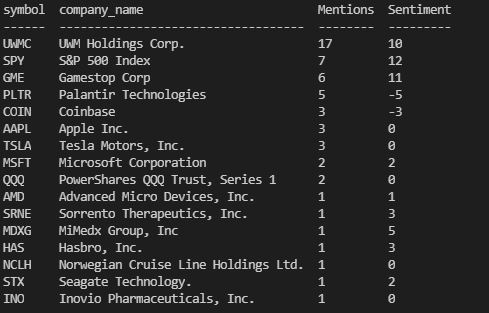
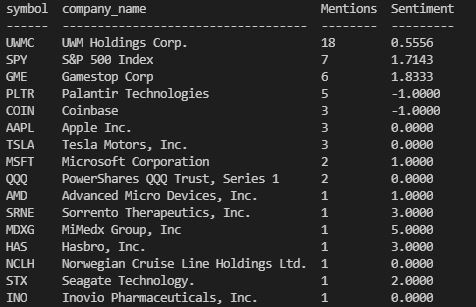
updated readme

diff --git a/controllers/apiRoutes/ticker-routes.js b/controllers/apiRoutes/ticker-routes.js
@@ -27,7 +27,7 @@ router.get('/count', (req, res) => {
             'symbol',
             'company_name',
             [sequelize.fn('COUNT', sequelize.col('symbol')), 'Mentions'],
-            [sequelize.fn('SUM', sequelize.col('sentiment_score')), 'Sentiment'],
+            [sequelize.fn('AVG', sequelize.col('sentiment_score')), 'Sentiment'],
         ],
         group: ['symbol'],
         order: [[sequelize.literal('Mentions'), 'DESC']]

diff --git a/README.md b/README.md
@@ -1,1 +1,23 @@
-# reddit-stock-tracker
+# Reddit Stock Search
+
+## Description
+This is a back-end application with the purpose of searching through the "WallStreetBets" subreddit page to gather data on stocks being talked about. As of right now,
+it scans through the titles of each post in the "hot" category and references ticker mentions whith a stock database which can be found in this repository. The app also
+uses a sentiment engine to measure the sentiment of each post title containing a stock. The sorted data is then uploaded to a mySQL database for use in other applications.
+
+## Future Additions
+* Scan through post text and comments on top of just titles
+* Search for full company names rather than just ticker symbols
+* Update the sentiment engine to understand reddit lingo a lot better (it's very inaccurate right now)
+* Allow for continued scanning of reddit and updating the database rather than just when the server is started
+
+## Software Used
+* JavaScript
+* Node.Js
+* MySQL (via Sequelize)
+
+## Images 
+![](./images/table.jpg)<br />
+
+## Contact
+* Email: kaletevans@gmail.com
